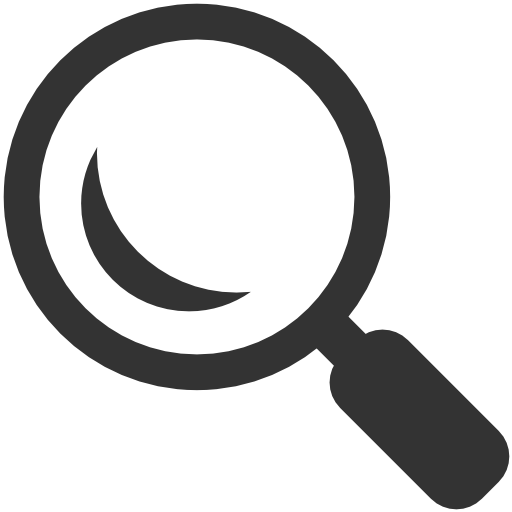
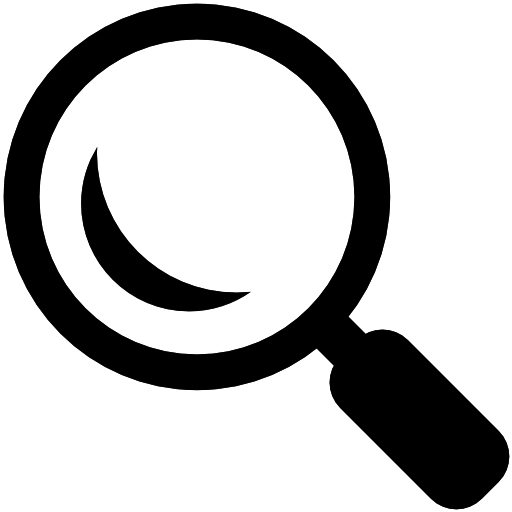
Cambio al icono de buscar formulario y puesto un poco más bonito el texto de cuando no hay formularios

Changed region(s): [[0.0, 0.0, 1.0, 1.0], [0.1562, 0.2812, 0.5, 0.625]]

diff --git a/lib/interfaz_grafica/pantalla_mostrar_formularios.dart b/lib/interfaz_grafica/pantalla_mostrar_formularios.dart
@@ -27,8 +27,17 @@ class _PantallaMostrarFormularioState extends State<PantallaMostrarFormulario>{
       ///Listado de Formularios realizados
       body: gestor.listaFormularios.isEmpty ? //CONDICIONAL ENTRE CENTER Ó COLUMN SEGUN HAYA FORMULARIOS O NO
 
-      // todo formatear un poco este texto y ponerlo bonito
-      const Center(child: Text("Aún no tienes formularios :(. \nPrueba a crear uno desde 'Nuevo Formulario' en menú principal"),)
+      Container(
+        padding: const EdgeInsets.fromLTRB(10, 30, 10, 0),
+        child: const Text(
+          "Aún no tienes formularios :(\nPrueba a crear uno desde 'Nuevo Formulario' en menú principal",
+          style: TextStyle(
+              fontWeight: FontWeight.bold,
+              fontSize: 20),
+          maxLines: 3,
+          textAlign: TextAlign.center,
+        ),
+      )
 
       : // operador ternario condicional, esto hace que si gestor.listaFormularios.isEmpty es false, sea esto lo que se ejecute
 
